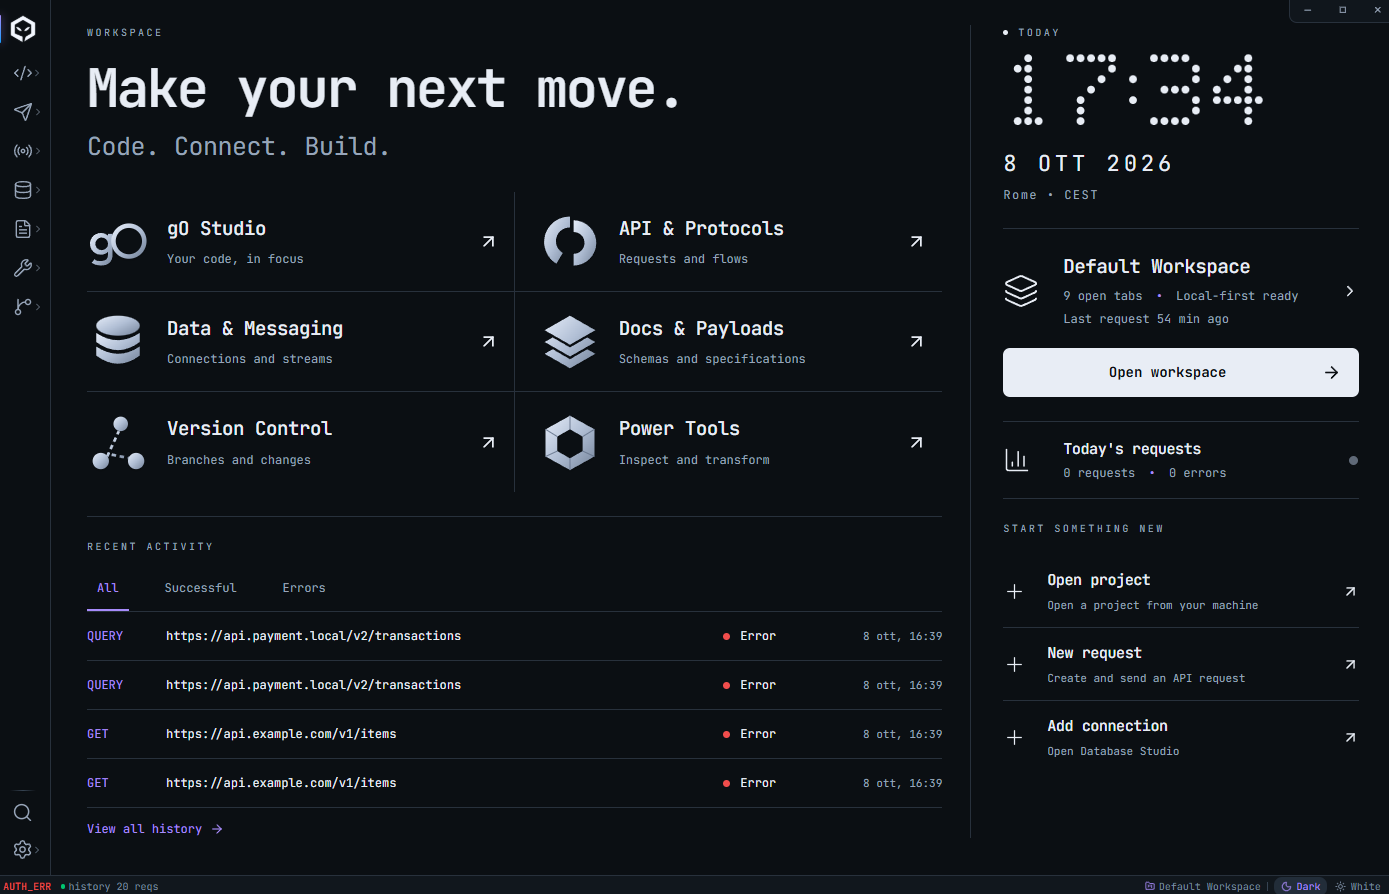
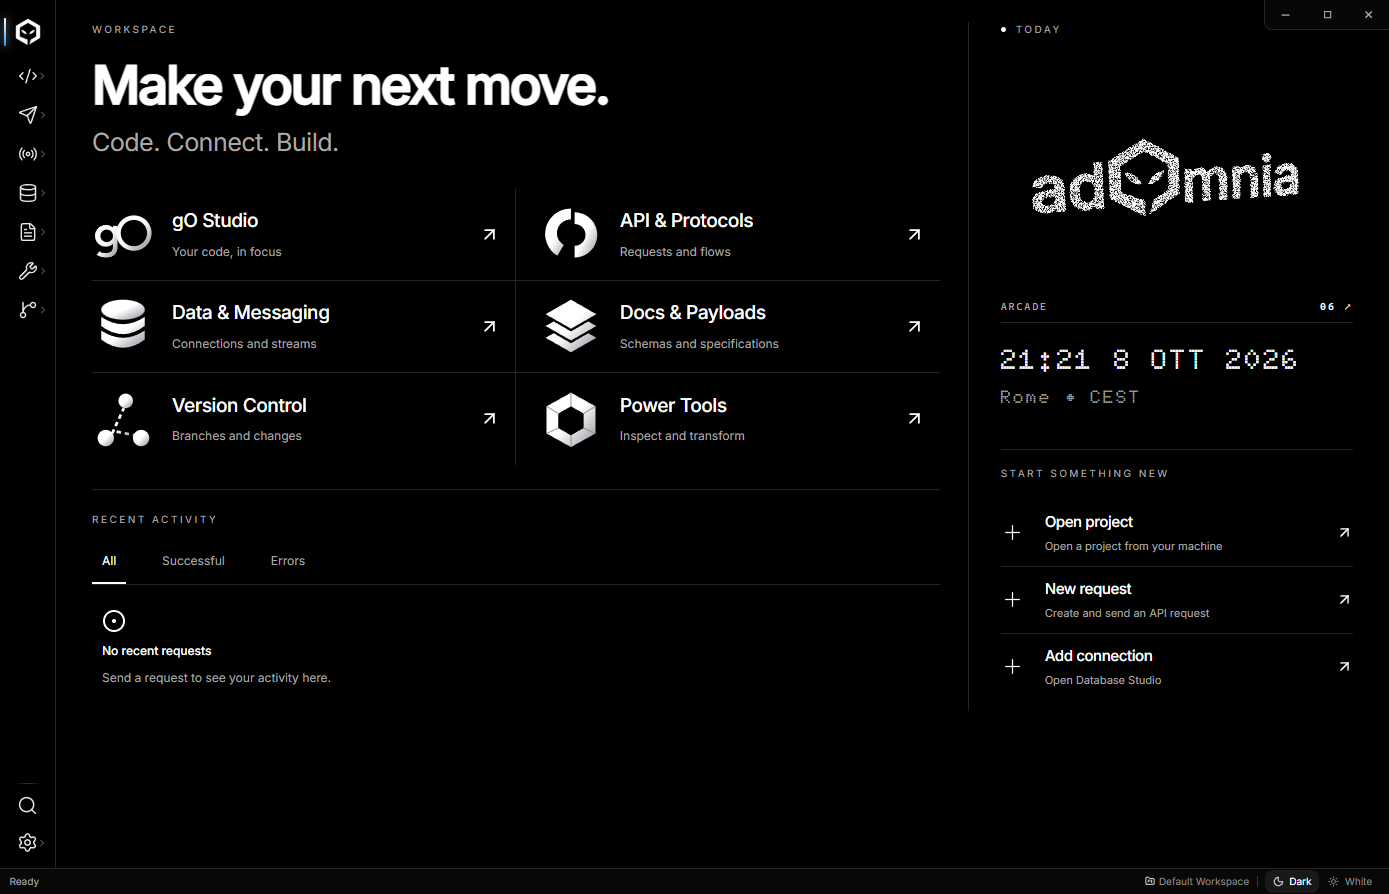
release: v0.9.75 Hub fits on one page
Drop the workspace card, Open workspace button and Today's requests from
the Hub Today column; move Start something new up and tighten spacing so
the whole Hub fits without scrolling down to 1280x760.

diff --git a/frontend/src/components/layout/WelcomePanel.css b/frontend/src/components/layout/WelcomePanel.css
@@ -1,18 +1,14 @@
 [data-hub-page]{--hub-bg:var(--color-surface-0);--hub-ink:var(--color-text-1);--hub-muted:var(--color-text-3);--hub-line:var(--color-border-1);--hub-accent:var(--color-accent);height:100%;overflow:auto;background:var(--hub-bg);color:var(--hub-ink);font-family:var(--skin-font-ui,var(--font-ui,var(--font-sans)))}
 [data-hub-page] button{cursor:pointer;text-align:left;color:inherit}[data-hub-page] button:focus-visible{outline:2px solid var(--hub-accent);outline-offset:3px}
 .hub-status i,.hub-today-eyebrow i{display:inline-block;width:7px;height:7px;background:var(--color-success);border-radius:50%;flex-shrink:0}
-.hub-content{max-width:1600px;margin:auto;padding:28px 36px;display:grid;grid-template-columns:minmax(0,2.2fr) minmax(280px,1fr);gap:28px}.hub-left{min-width:0}
-.hub-eyebrow{font-size:10px;letter-spacing:2.5px;text-transform:uppercase;color:var(--hub-muted);margin:0 0 19px}.hub-studios h1{font-size:clamp(28px,3.8vw,60px);line-height:1.12;letter-spacing:-2px;font-weight:600;margin:0}.hub-lede{color:var(--hub-muted);font-size:clamp(17px,1.8vw,25px);margin:9px 0 27px;letter-spacing:-.5px}.hub-grid{display:grid;grid-template-columns:repeat(2,minmax(0,1fr))}.hub-studio{display:grid;grid-template-columns:62px minmax(0,1fr) 21px;align-items:center;gap:18px;min-height:100px;padding:18px 15px 18px 0;border-bottom:1px solid var(--hub-line);transition:background .15s}.hub-studio:nth-child(odd){border-right:1px solid var(--hub-line)}.hub-studio:nth-child(even){padding-left:24px}.hub-studio:nth-last-child(-n+2){border-bottom:0}.hub-studio:hover,.hub-history-row:hover{background:color-mix(in srgb,var(--hub-accent) 5%,transparent)}.hub-studio-icon{display:grid;place-items:center;color:var(--color-text-2);filter:drop-shadow(0 2px 1px #0002)}.hub-studio strong,.hub-start strong,.hub-ws strong,.hub-signals strong{display:block;font-size:clamp(14px,1.4vw,19px);font-weight:500;letter-spacing:-.4px}.hub-studio small,.hub-start small,.hub-ws small,.hub-signals small{display:block;color:var(--hub-muted);font-size:12px;margin-top:7px;line-height:1.5}
+.hub-content{max-width:1600px;margin:auto;padding:22px 36px;display:grid;grid-template-columns:minmax(0,2.2fr) minmax(280px,1fr);gap:28px}.hub-left{min-width:0}
+.hub-eyebrow{font-size:10px;letter-spacing:2.5px;text-transform:uppercase;color:var(--hub-muted);margin:0 0 19px}.hub-studios h1{font-size:clamp(28px,3.8vw,60px);line-height:1.12;letter-spacing:-2px;font-weight:600;margin:0}.hub-lede{color:var(--hub-muted);font-size:clamp(17px,1.8vw,25px);margin:9px 0 27px;letter-spacing:-.5px}.hub-grid{display:grid;grid-template-columns:repeat(2,minmax(0,1fr))}.hub-studio{display:grid;grid-template-columns:62px minmax(0,1fr) 21px;align-items:center;gap:18px;min-height:92px;padding:16px 15px 16px 0;border-bottom:1px solid var(--hub-line);transition:background .15s}.hub-studio:nth-child(odd){border-right:1px solid var(--hub-line)}.hub-studio:nth-child(even){padding-left:24px}.hub-studio:nth-last-child(-n+2){border-bottom:0}.hub-studio:hover,.hub-history-row:hover{background:color-mix(in srgb,var(--hub-accent) 5%,transparent)}.hub-studio-icon{display:grid;place-items:center;color:var(--color-text-2);filter:drop-shadow(0 2px 1px #0002)}.hub-studio strong,.hub-start strong{display:block;font-size:clamp(14px,1.4vw,19px);font-weight:500;letter-spacing:-.4px}.hub-studio small,.hub-start small{display:block;color:var(--hub-muted);font-size:12px;margin-top:7px;line-height:1.5}
 .hub-activity{margin-top:24px;padding-top:22px;border-top:1px solid var(--hub-line)}.hub-filters{display:flex;gap:26px;border-bottom:1px solid var(--hub-line)}.hub-filters button{padding:6px 10px 12px;font-size:12px;color:var(--hub-muted);border-bottom:2px solid transparent}.hub-filters button[aria-pressed=true]{border-color:var(--hub-accent);color:var(--hub-accent)}.hub-history-row{display:grid;grid-template-columns:65px minmax(0,1fr) 80px 125px;align-items:center;gap:14px;width:100%;min-height:49px;border-bottom:1px solid var(--hub-line);font-size:12px}.hub-method{color:var(--hub-accent);font-family:var(--font-mono)}.hub-history-url{overflow:hidden;text-overflow:ellipsis;white-space:nowrap;font-family:var(--font-mono)}.hub-status{display:flex;align-items:center;gap:10px}.hub-status[data-error=true] i{background:var(--color-error)}.hub-history-row time{color:var(--hub-muted);text-align:right;font-size:11px}.hub-empty{display:flex;flex-direction:column;align-items:flex-start;gap:9px;padding:24px 10px;font-size:12px;color:var(--hub-muted)}.hub-empty svg{color:var(--hub-accent)}.hub-empty strong{font-weight:500;color:var(--hub-ink)}.hub-history-more{display:flex;gap:8px;align-items:center;margin-top:12px;font-size:12px;color:var(--hub-accent)!important}
 /* Today: Nothing-style right column */
 .hub-today{border-left:1px solid var(--hub-line);padding-left:32px;min-width:0;display:flex;flex-direction:column}.hub-today-eyebrow{display:flex;align-items:center;gap:10px;margin-bottom:14px}.hub-today-eyebrow i{width:5px;height:5px;background:var(--hub-accent)}
 .hub-clock-wrap{display:block;color:var(--hub-accent)}.hub-clock{display:block;width:min(100%,260px);height:auto}.hub-fold{display:block;width:100%;height:clamp(170px,21vw,250px);margin:-6px 0 -4px;cursor:pointer}.hub-date time{color:var(--hub-accent);margin-right:20px}.hub-date{font-family:Doto,var(--font-mono);font-weight:800;font-size:clamp(20px,2vw,30px);line-height:1.1;letter-spacing:2px;margin:22px 0 8px}.hub-zone{font-family:Doto,var(--font-mono);font-weight:800;font-size:clamp(15px,1.3vw,19px);letter-spacing:2px;color:var(--hub-muted);margin:0 0 24px}
-.hub-ws{display:grid;grid-template-columns:44px minmax(0,1fr) 18px;align-items:center;gap:16px;padding:24px 0 20px;border-top:1px solid var(--hub-line);color:var(--hub-ink)}.hub-ws>svg:first-child{color:var(--hub-accent)}.hub-ws small{margin-top:5px}.hub-ws b,.hub-signals b{font-weight:400;padding:0 6px;color:var(--hub-accent)}.hub-ws strong{overflow-wrap:anywhere}.hub-ws:hover>svg:last-child{transform:translateX(2px);color:var(--hub-accent)}.hub-ws>svg:last-child{transition:transform .15s}
-.hub-open-ws{display:flex;align-items:center;justify-content:space-between;gap:10px;width:100%;background:var(--hub-accent);color:var(--color-on-accent)!important;padding:14px 18px 14px 20px;border-radius:7px;font-size:14px;font-weight:600;transition:transform .15s,box-shadow .15s}.hub-open-ws:hover{background:var(--color-accent-hover);box-shadow:0 0 0 3px color-mix(in srgb,var(--hub-accent) 30%,transparent)}.hub-open-ws:active{transform:scale(.99)}.hub-open-ws span{flex:1;text-align:center}
-.hub-signals{margin-top:24px;border-top:1px solid var(--hub-line)}.hub-signals>*{display:grid;grid-template-columns:44px minmax(0,1fr) 10px;align-items:center;gap:16px;width:100%;padding:16px 0;border-bottom:1px solid var(--hub-line)}.hub-signals strong{font-size:15px}.hub-signals small{margin-top:4px}.hub-signals button:hover strong{color:var(--hub-accent)}.hub-signals em{font-style:normal}.hub-signals em[data-error=true]{color:var(--color-error)}
-.hub-signals i{width:9px;height:9px;border-radius:50%;background:var(--hub-muted);opacity:.6}.hub-signals i[data-on=true]{background:var(--hub-accent);opacity:1;box-shadow:0 0 8px color-mix(in srgb,var(--hub-accent) 60%,transparent)}.hub-signals i[data-on=true][data-error=true]{background:var(--color-error);box-shadow:0 0 8px color-mix(in srgb,var(--color-error) 60%,transparent)}
-.hub-start{margin-top:22px}.hub-start button{display:grid;grid-template-columns:28px minmax(0,1fr) 17px;align-items:center;gap:16px;padding:14px 0;width:100%;border-bottom:1px solid var(--hub-line)}.hub-start button:last-child{border-bottom:0}.hub-start button:hover{color:var(--hub-accent)}.hub-start strong{font-size:15px}.hub-start small{font-size:11px;margin-top:5px}
-@media(max-width:1100px){.hub-content{padding:26px 24px;gap:20px}.hub-studio{gap:12px;grid-template-columns:44px minmax(0,1fr) 18px}.hub-studio-icon svg{width:38px}.hub-studio:nth-child(even){padding-left:16px}.hub-today{padding-left:20px}.hub-history-row{grid-template-columns:50px minmax(0,1fr) 65px}.hub-history-row time{display:none}}@media(max-width:820px){.hub-content{grid-template-columns:1fr}.hub-today{padding:24px 0 0;border-left:0;border-top:1px solid var(--hub-line)}}@media(max-width:480px){.hub-grid{grid-template-columns:1fr}.hub-studio:nth-child(n){border-right:0;border-bottom:1px solid var(--hub-line);padding:18px 0;min-height:90px}.hub-content{padding:24px 18px}}@media(prefers-reduced-motion:reduce){.hub-studio,.hub-open-ws,.hub-ws>svg:last-child{transition:none}}
+.hub-start{margin-top:14px;padding-top:16px;border-top:1px solid var(--hub-line)}.hub-start button{display:grid;grid-template-columns:28px minmax(0,1fr) 17px;align-items:center;gap:16px;padding:11px 0;width:100%;border-bottom:1px solid var(--hub-line)}.hub-start button:last-child{border-bottom:0}.hub-start button:hover{color:var(--hub-accent)}.hub-start strong{font-size:15px}.hub-start small{font-size:11px;margin-top:5px}
+@media(max-width:1100px){.hub-content{padding:26px 24px;gap:20px}.hub-studio{gap:12px;grid-template-columns:44px minmax(0,1fr) 18px}.hub-studio-icon svg{width:38px}.hub-studio:nth-child(even){padding-left:16px}.hub-today{padding-left:20px}.hub-history-row{grid-template-columns:50px minmax(0,1fr) 65px}.hub-history-row time{display:none}}@media(max-width:820px){.hub-content{grid-template-columns:1fr}.hub-today{padding:24px 0 0;border-left:0;border-top:1px solid var(--hub-line)}}@media(max-width:480px){.hub-grid{grid-template-columns:1fr}.hub-studio:nth-child(n){border-right:0;border-bottom:1px solid var(--hub-line);padding:18px 0;min-height:90px}.hub-content{padding:24px 18px}}@media(prefers-reduced-motion:reduce){.hub-studio{transition:none}}
 /* Snake on a dot matrix, inside the FOLD box */
 .hub-snake{position:relative;height:clamp(170px,21vw,250px);margin:-6px 0 -4px;display:flex;flex-direction:column;outline:none;font-family:Doto,var(--font-mono);font-weight:800;color:var(--hub-ink)}.hub-snake-bar{display:flex;align-items:center;gap:14px;font-size:14px;letter-spacing:2px;text-transform:uppercase;padding:2px 2px 6px;color:var(--hub-muted)}.hub-snake-bar strong{font-weight:800;color:var(--hub-accent)}.hub-snake-bar span{color:var(--hub-ink)}.hub-snake-bar .hub-snake-best{margin-left:auto;color:var(--hub-muted)}.hub-snake-board{flex:1;width:100%;min-height:0;display:block;cursor:pointer;border:1px solid var(--hub-line);border-radius:10px}.hub-snake-msg{position:absolute;left:0;right:0;bottom:16px;margin:0;text-align:center;font-size:14px;letter-spacing:1.5px;text-transform:uppercase;pointer-events:none;color:var(--hub-ink)}.hub-snake-exit{font:inherit;font-size:11px;letter-spacing:1px;color:var(--hub-muted)!important;padding:2px 6px;border:1px solid var(--hub-line);border-radius:4px;background:var(--hub-bg)}.hub-snake-exit:hover{color:var(--hub-accent)!important;border-color:var(--hub-accent)}
 

diff --git a/frontend/src/components/layout/WelcomePanel.tsx b/frontend/src/components/layout/WelcomePanel.tsx
@@ -1,9 +1,7 @@
 import { lazy, Suspense, useEffect, useState, type ReactElement } from 'react'
-import { ArrowRight, ArrowUpRight, ChevronRight, Plus, Layers, CircleDot, BarChart3 } from 'lucide-react'
+import { ArrowRight, ArrowUpRight, Plus, CircleDot } from 'lucide-react'
 import { useAppStore, type RailItem } from '@/stores/app'
-import { useCollectionsStore } from '@/stores/collections'
 import { useTabsStore } from '@/stores/tabs'
-import { DAILY_STATS_EVENT, readDailyStats } from '@/lib/dailyStats'
 import { FoldMark } from './FoldMark'
 import { ArcadeMenu } from './arcade/ArcadeMenu'
 import type { GameId } from './arcade/types'
@@ -75,17 +73,6 @@ function useNow() {
   return now
 }
 
-function useDailyStats(day: string) {
-  const [stats, setStats] = useState(() => readDailyStats())
-  useEffect(() => {
-    const update = () => setStats(readDailyStats())
-    update() // `day` changes at midnight: re-read so the counter starts from zero
-    window.addEventListener(DAILY_STATS_EVENT, update)
-    return () => window.removeEventListener(DAILY_STATS_EVENT, update)
-  }, [day])
-  return stats
-}
-
 function timeZoneLabel(now: Date) {
   const zone = Intl.DateTimeFormat().resolvedOptions().timeZone ?? ''
   const city = zone.split('/').pop()?.replace(/_/g, ' ') ?? ''
@@ -97,20 +84,12 @@ function TodayPanel() {
   const tr = useUiTranslation()
   const t = (text: string) => tr(text as UiMessage) || text
   const open = useAppStore(s => s.setActiveRail)
-  const workspaces = useCollectionsStore(s => s.workspaces)
-  const workspaceId = useCollectionsStore(s => s.activeWorkspaceId)
   const tabs = useTabsStore(s => s.tabs)
-  const history = useTabsStore(s => s.responseHistory)
   const newTab = useTabsStore(s => s.newTab)
   const now = useNow()
   const [game, setGame] = useState<GameId | null>(null)
   const [arcadeOpen, setArcadeOpen] = useState(false)
   const openGame = () => setArcadeOpen(true)
-  const stats = useDailyStats(now.toDateString())
-  const workspace = workspaces.find(w => w.id === workspaceId)
-  const openTabs = tabs.filter(tab => tab.workspaceId === workspaceId).length
-  const lastAt = history.find(h => h.recordedAt)?.recordedAt
-  const lastMinutes = lastAt ? Math.max(0, Math.floor((now.getTime() - new Date(lastAt).getTime()) / 60000)) : null
   const clock = `${String(now.getHours()).padStart(2, '0')}:${String(now.getMinutes()).padStart(2, '0')}`
   const date = now.toLocaleDateString(undefined, { day: 'numeric', month: 'short', year: 'numeric' }).replace(/\./g, '').toUpperCase()
   const actions: { title: string; detail: string; run: () => void }[] = [
@@ -127,19 +106,6 @@ function TodayPanel() {
       : <><FoldMark busy={tabs.some(tab => tab.loading)} fallback={<DotClock text={clock}/>} onWordClick={openGame}/><button className="hub-arcade-open" type="button" onClick={openGame}>{t('Arcade')} <span>06 ↗</span></button></>}</div>
     <p className="hub-date"><time dateTime={now.toISOString()}>{clock}</time><span>{date}</span></p>
     <p className="hub-zone">{timeZoneLabel(now)}</p>
-    <button className="hub-ws" onClick={() => open('collections')}>
-      <Layers size={36} strokeWidth={1.3}/>
-      <span><strong>{workspace?.name ?? 'adOmnia'}</strong>
-        <small>{openTabs} {t('open tabs')} <b>•</b> {t('Local-first ready')}</small>
-        <small>{lastMinutes === null ? t('No requests yet') : `${t('Last request')} ${lastMinutes < 1 ? t('just now') : `${lastMinutes} ${t('min ago')}`}`}</small>
-      </span><ChevronRight size={18}/>
-    </button>
-    <button className="hub-open-ws" onClick={() => open('collections')}><span>{t('Open workspace')}</span><ArrowRight size={19}/></button>
-    <div className="hub-signals">
-      <button onClick={() => open('history')}>
-        <BarChart3 size={28} strokeWidth={1.3}/><span><strong>{t("Today's requests")}</strong><small>{stats.requests} {t('requests')} <b>•</b> <em data-error={stats.errors > 0}>{stats.errors} {t('errors')}</em></small></span><i data-on={stats.requests > 0} data-error={stats.errors > 0}/>
-      </button>
-    </div>
     <div className="hub-start"><p className="hub-eyebrow">{t('Start something new')}</p>{actions.map(action => <button key={action.title} onClick={action.run}><Plus size={23} strokeWidth={1.3}/><span><strong>{t(action.title)}</strong><small>{t(action.detail)}</small></span><ArrowUpRight size={17}/></button>)}</div>
   </aside>
 }

diff --git a/docs/releases/v0.9.75.md b/docs/releases/v0.9.75.md
@@ -1,0 +1,18 @@
+# adOmnia v0.9.75 — The Hub fits on one page
+
+The Hub is back to a single screen: no scrolling to reach what matters.
+
+## A lighter Today column
+
+- The workspace card, the **Open workspace** button and the
+  **Today's requests** counter are gone from the Hub. The workspace stays one
+  click away in the rail and the status bar; full request history stays in
+  **History** and in **Recent activity**.
+- **Start something new** — Open project, New request, Add connection — moves
+  up right under the dot-matrix clock and the Arcade.
+
+## Tighter layout
+
+Studio cards and page spacing are slightly more compact, so the whole Hub,
+including Recent activity, fits without scrolling from 1280×760 upwards, in
+Dark and White and with any accent palette.

diff --git a/CHANGELOG.md b/CHANGELOG.md
@@ -6,6 +6,11 @@ This project follows a pragmatic release log format inspired by Keep a Changelog
 
 ## [Unreleased]
 
+## [0.9.75] - 2026-10-08
+
+### Changed
+- **Hub fits one page:** the Today column drops the workspace card, the Open workspace button and the daily request counter. Start something new (Open project, New request, Add connection) moves up under the clock, and tighter studio cards keep the whole Hub visible without scrolling, down to 1280×760.
+
 ## [0.9.74] - 2026-10-08
 
 ### Added

diff --git a/docs/RELEASE.md b/docs/RELEASE.md
@@ -2,6 +2,11 @@
 
 adOmnia releases are driven by Git tags and GitHub Actions.
 
+## v0.9.75 release notes: the Hub fits on one page
+
+See [the full v0.9.75 notes](releases/v0.9.75.md): a lighter Today column
+with Start something new moved up, so the whole Hub fits without scrolling.
+
 ## v0.9.74 release notes: choose your game
 
 See [the full v0.9.74 notes](releases/v0.9.74.md): an explicit six-game
